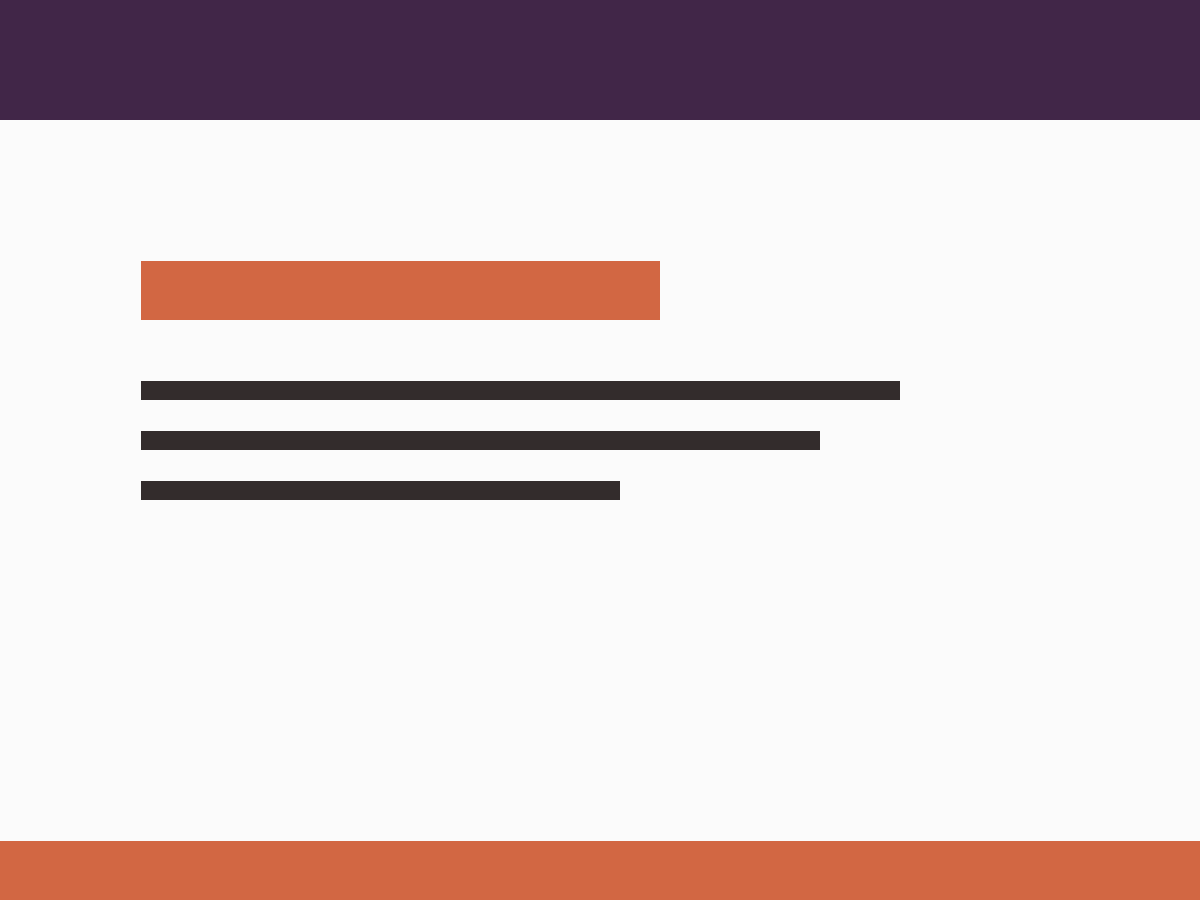
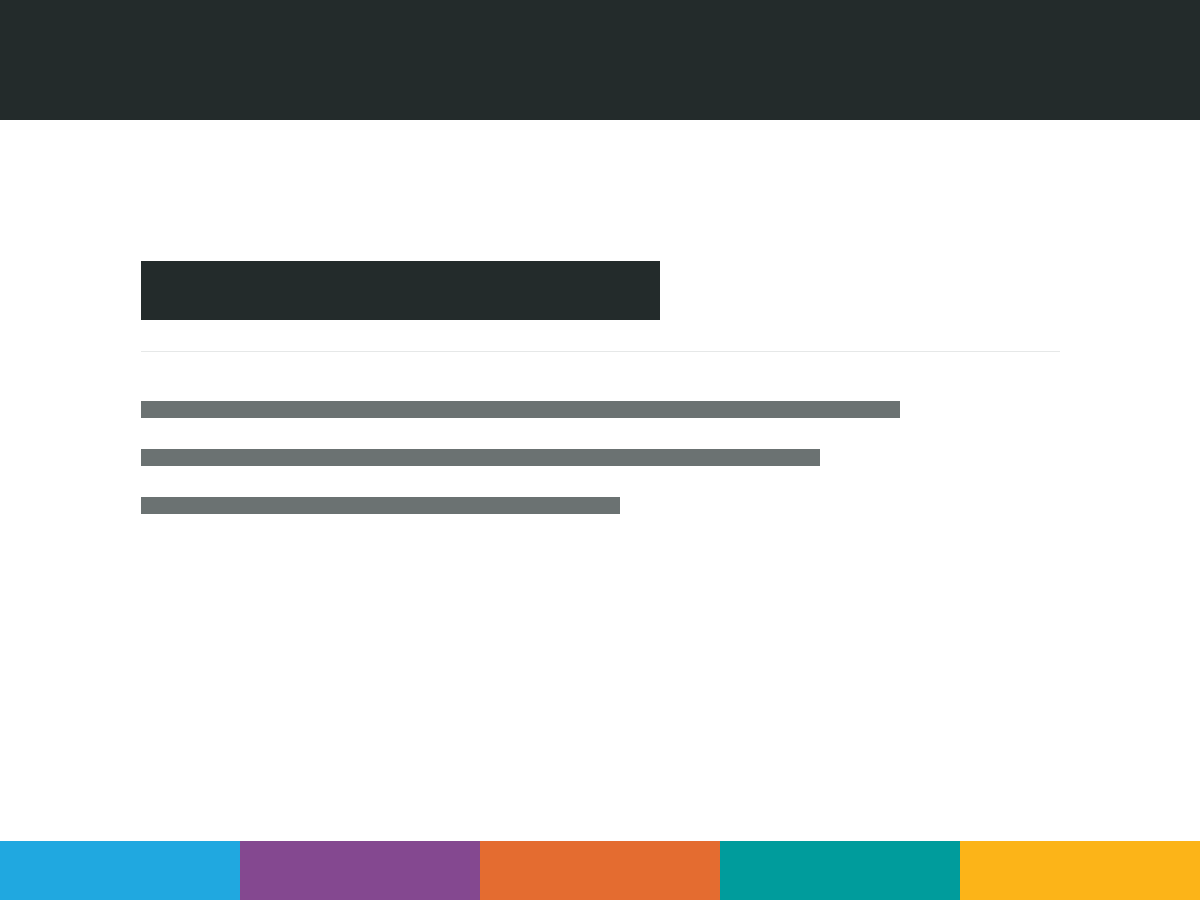
feat(blog): veste a identidade De Cabeca! — base grafite, cor so na editoria

diff --git a/style.css b/style.css
@@ -1,7 +1,7 @@
 /*
 Theme Name: Memoreba Blog
 Theme URI: https://blog.memoreba.com.br/
-Description: Tema-filho do Twenty Twenty-Five com a identidade visual do Memoreba. A paleta e a tipografia vivem em theme.json; este arquivo guarda apenas os ajustes que os blocos não cobrem.
+Description: Tema-filho do Twenty Twenty-Five com a identidade do blog "De Cabeça!" — base grafite e branco, cor entrando só pela editoria. A paleta vive em theme.json; este arquivo guarda apenas os ajustes que os blocos não cobrem.
 Author: Memoreba
 Author URI: https://memoreba.com.br/
 Template: twentytwentyfive

diff --git a/README.md b/README.md
@@ -19,20 +19,40 @@ sobrevive às atualizações e herda tudo o que não for redefinido aqui.
 | `templates/`, `parts/` | Criados sob demanda; um arquivo de mesmo nome sobrescreve o do pai |
 | `.cpanel.yml` | Diz ao cPanel quais arquivos copiar e para onde |
 
-## Paleta
+## Paleta — identidade do blog, não a do produto
 
-Espelha `packages/ui/src/styles/tokens.css` do monorepo:
+O blog tem marca própria. A paleta vem de
+`docs/08-produto/marca-blog/descricao-blog.md` no monorepo, **não** dos tokens
+do produto (`packages/ui/src/styles/tokens.css`). Decisão do dono em 08/08/2026:
+o blog veste "De Cabeça!", o Memoreba mantém terracota e roxo.
+
+**Base neutra** — é ela que deixa a cor da editoria significar alguma coisa:
 
 | Uso | Cor |
 |---|---|
-| Terracota (marca) | `#D26743` |
-| Terracota escuro | `#9E4D32` |
-| Roxo da marca | `#6C3F78` |
-| Roxo profundo | `#412648` |
-| Texto | `#332C2C` |
-| Fundo | `#FBFBFB` |
+| Fundo | `#FFFFFF` |
+| Grafite (texto e títulos) | `#232B2B` |
+| Grafite claro (datas, apoio) | `#6B7272` |
+| Linha | `#E6E8E8` |
 
-Mudou a paleta do produto? Atualize aqui também — não há sincronização automática.
+**Cor por editoria** — a engrenagem do logotipo troca de cor conforme a pauta:
+
+| Editoria | Cor |
+|---|---|
+| Método | `#20A8E0` |
+| Memória | `#844890` |
+| Edital | `#E46C30` |
+| Rotina | `#009C9C` |
+| Bastidores | `#FCB418` |
+| Série especial (reservada) | `#E41860` |
+
+Regra que sustenta o sistema: **o corpo da página fica neutro**. Se o layout
+começar a receber cor de fundo em bloco, a sinalização por editoria se perde.
+O ciano de Método é o padrão de link por ser a cor da engrenagem no logotipo
+principal.
+
+Os cinzas `#6B7272` e `#E6E8E8` são derivados do grafite, não constam do
+documento de marca — se a marca fixar valores próprios, troque aqui.
 
 ## Como publicar uma mudança
 
